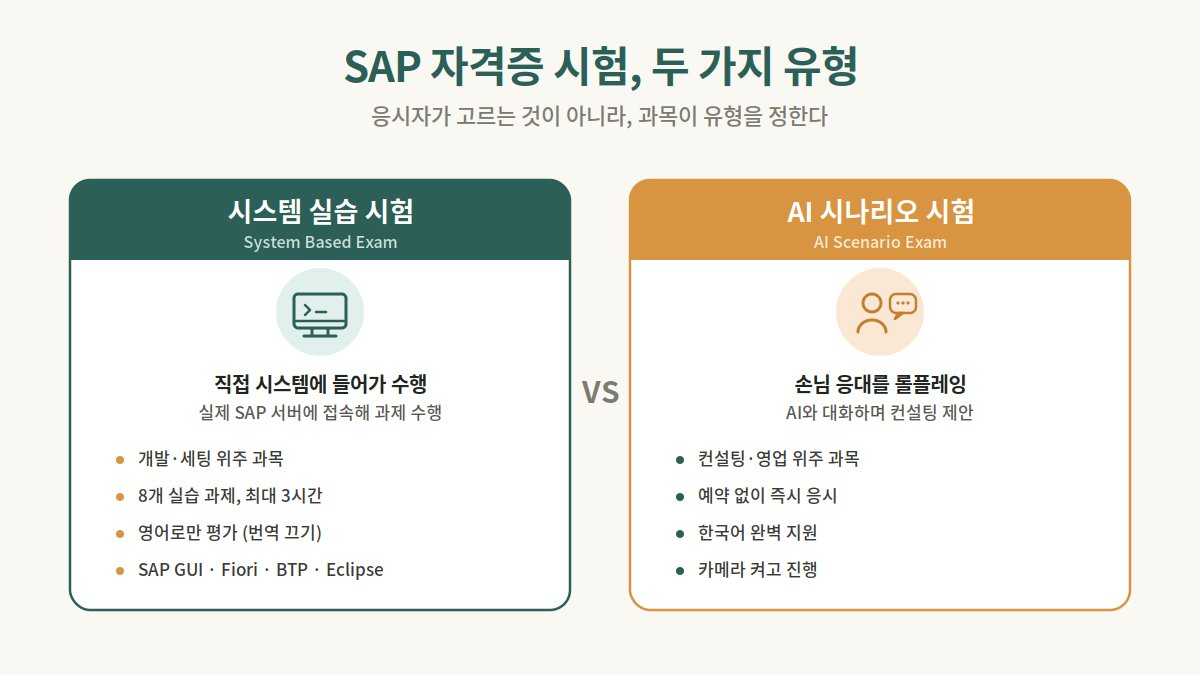
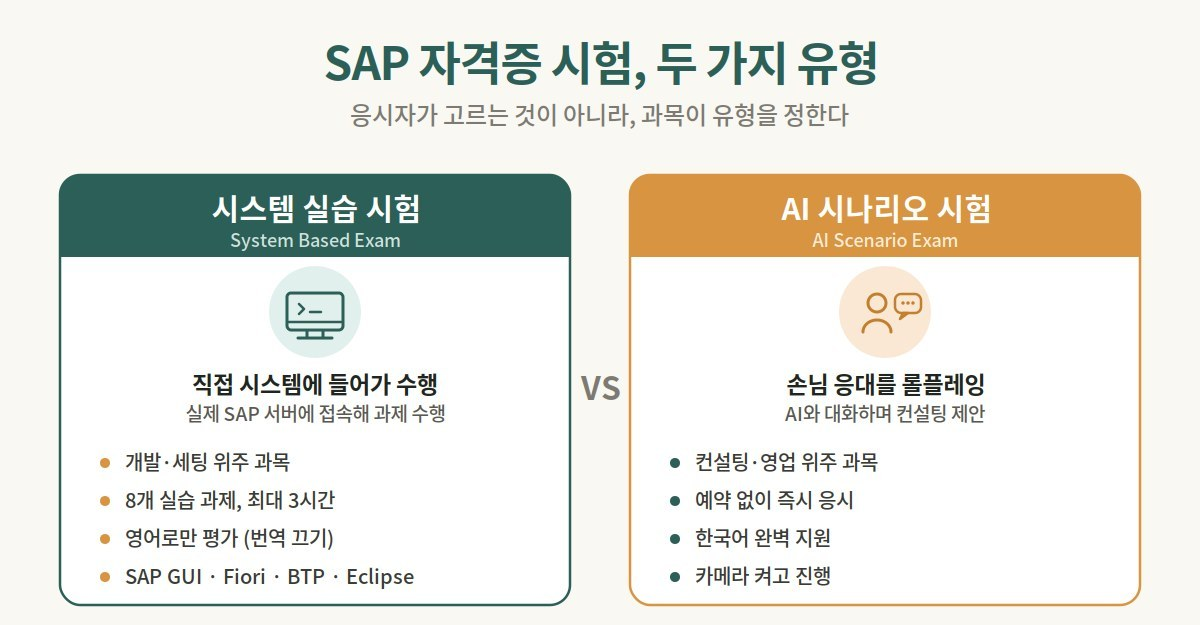
도식 글자 확대, 캡션 간격 통일, 히어로 부제 모바일 줄바꿈, 헤더 여백

diff --git a/src/content/blog/ko/sap-cpim.md b/src/content/blog/ko/sap-cpim.md
@@ -1,15 +1,11 @@
 ---
-title: SAP 자격증보다 CPIM을 먼저 권한 이유 (Why vs How)
-description: 현직 PP 컨설턴트가 SAP 자격증 대신 CPIM을 먼저 추천한 이유. 시스템을 다루는 'How'와 프로세스를 이해하는 'Why'의 차이를 실무자 관점에서 정리했습니다.
-pubDate: 2026-06-18
-category: study
-series: 레스토랑으로 배우는 SAP
-level: beginner
-tags:
-  - SAP학습자료
-  - CPIM
-  - SAP자격증
-  - SCM
+title: "SAP 자격증보다 CPIM을 먼저 권한 이유 (Why vs How)"
+description: "현직 PP 컨설턴트가 SAP 자격증 대신 CPIM을 먼저 추천한 이유. 시스템을 다루는 'How'와 프로세스를 이해하는 'Why'의 차이를 실무자 관점에서 정리했습니다."
+pubDate: 2026-06-17
+category: "study"
+series: "레스토랑으로 배우는 SAP"
+level: "beginner"
+tags: ["SAP학습자료", "CPIM", "SAP자격증", "SCM"]
 ---
 
 안녕하세요, Rabbit입니다! 🐰
@@ -29,7 +25,7 @@ tags:
 
 제가 SAP PP 구축 프로젝트에 처음 참여해 한창 고생하던 시절의 이야기입니다. 프로젝트가 막바지에 접어들 무렵, "이제 시스템도 익혔으니 SAP PP 자격증을 따야겠다"고 마음먹었습니다.
 
-그래서 프로젝트를 이끌던 베테랑 PP 컨설턴트에게 상담을 청했습니다. "저도 SAP 전문가로 성장하고 싶은데, PP 자격증부터 공부하면 될까요?" 당연히 "좋은 생각"이라는 답을 기대했죠. 하지만 돌아온 말은 예상 밖이었습니다.
+그래서 프로젝트를 이끌던 경력 25년 차 베테랑 PP 컨설턴트에게 상담을 청했습니다. "저도 SAP 전문가로 성장하고 싶은데, PP 자격증부터 공부하면 될까요?" 당연히 "좋은 생각"이라는 답을 기대했죠. 하지만 돌아온 말은 예상 밖이었습니다.
 
 그분은 단호했습니다. "순서가 틀렸어요. SAP는 ERP 시장을 선점한 '도구'일 뿐입니다. T-code 외우고 설정 값 맞추는 건 금방 배워요. 하지만 **왜** S&OP(판매운영계획)가 MPS(주생산계획)로 이어져야 하는지, **왜** 이 MRP 로직이 이렇게 전개되는지, 그 원리를 모르면 전문가가 아니라 단순 조작자가 될 뿐입니다. SAP 자격증 대신 CPIM을 먼저 공부하세요."
 
@@ -71,7 +67,7 @@ CPIM은 ASCM이 주관하는 공급망·재고 관리 분야의 국제 자격증
 
 가장 현실적인 장벽은 시간과 비용입니다. 2026년 기준으로 정리하면 이렇습니다.
 
-시험은 단일 종합 시험으로, 150문항을 약 3.5시간 동안 풀고 합격 기준은 300점입니다. 학습 기간은 보통 3-6개월의 집중이 필요합니다. 비용은 학습 시스템·응시권·재응시 기회가 포함된 번들이 **약 2,230달러**(ASCM 멤버 기준, 비멤버는 더 높음)입니다. 국내 공식 파트너를 통하면 대략 320-350만 원 수준이고요.
+시험은 단일 종합 시험으로, 150문항을 약 3.5시간 동안 풀고 합격 기준은 300점입니다. 학습 기간은 보통 3–6개월의 집중이 필요합니다. 비용은 학습 시스템·응시권·재응시 기회가 포함된 번들이 **약 2,230달러**(ASCM 멤버 기준, 비멤버는 더 높음)입니다. 국내 공식 파트너를 통하면 대략 320–350만 원 수준이고요.
 
 > ⚠️ **참고**: CPIM은 2026년에 개정됩니다. 새 번들은 2026년 2월부터 판매되고, 개정 시험은 6월 1일부터 응시할 수 있습니다(기존 시험은 5월 31일 종료). 응시를 계획한다면 어떤 버전인지 확인이 필요합니다.
 